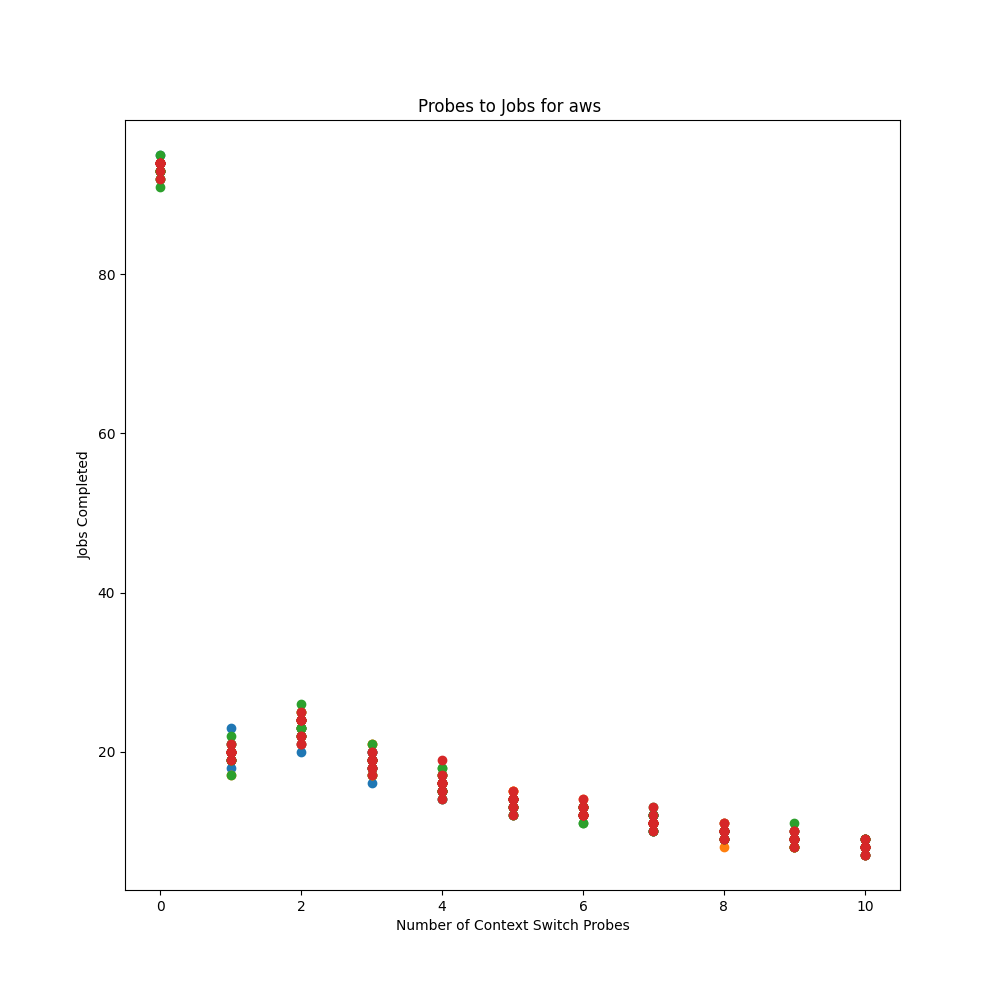
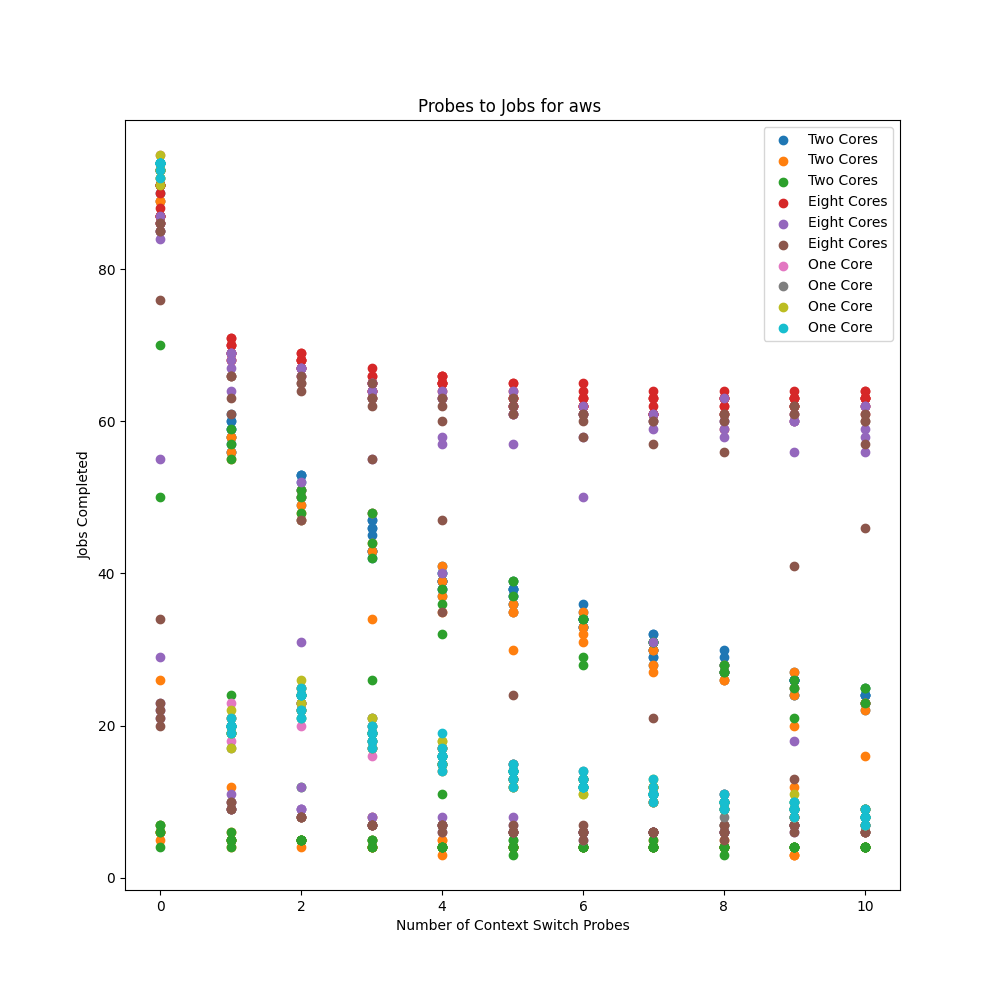
process additional aws experiments

diff --git a/analyzer.py b/analyzer.py
@@ -8,19 +8,25 @@ import matplotlib.pyplot as plt
 def visualize(serverType, governor, experiment, timePerJob):
     allJobs = []
     allEvents = []
+    colors = [] # number of cores for AWS instance
     path = os.getcwd() + "\\Results\\" + experiment
     for file in os.listdir(path):
         if serverType in file and governor in file:
             lines = open(path + "\\" + file, "r").readlines()
             if timePerJob:
-                allJobs.append([round(20.0 / val, 3)
-                               for val in eval(lines[19])])
+                allJobs.append([round(20.0 / val, 3) for val in eval(lines[19])])
             else:
                 allJobs.append(eval(lines[19]))
             if experiment == "probesExp":
                 allEvents.append(eval(lines[21]))
             else:  # context switch experiment
                 allEvents.append([0, 1, 2, 3, 4, 5, 6, 7, 8, 9, 10] * 10)
+                # if "aws_" in file:
+                #     colors.append(("One Core", "red"))
+                # elif "aws2" in file:
+                #     colors.append(("Two Cores", "green"))
+                # elif "aws8" in file:
+                #     colors.append(("Eight Cores", "blue"))
 
     # create a scatter plot of the data
     fig, ax1 = plt.subplots(figsize=(10, 10))
@@ -35,36 +41,35 @@ def visualize(serverType, governor, experiment, timePerJob):
     else:
         ax1.set_xlabel("Number of Context Switch Probes")
     for idx in range(len(allEvents)):
-        plt.scatter(allEvents[idx], allJobs[idx], label=f"Run {idx + 1}")
+        if colors:
+            plt.scatter(allEvents[idx], allJobs[idx], label=colors[idx][0])
+        else:
+            plt.scatter(allEvents[idx], allJobs[idx], label=f"Run {idx + 1}")
+    if colors:
+        plt.legend()
     if experiment == "probesExp":
         ax1.set_title(f"Events to Jobs for {serverType} {governor}")
     else:
         ax1.set_title(f"Probes to Jobs for {serverType} {governor}")
-    fig.show()
+    # fig.show()
     if governor:
         if timePerJob:
-            plt.savefig(
-                f"{os.getcwd()}\\Figures\\{experiment}TPJ\\{serverType}_{governor}.png")
+            plt.savefig(f"{os.getcwd()}\\Figures\\{experiment}TPJ\\{serverType}_{governor}.png")
         else:
-            plt.savefig(
-                f"{os.getcwd()}\\Figures\\{experiment}\\{serverType}_{governor}.png")
+            plt.savefig(f"{os.getcwd()}\\Figures\\{experiment}\\{serverType}_{governor}.png")
     else:
         if timePerJob:
-            plt.savefig(
-                f"{os.getcwd()}\\Figures\\{experiment}TPJ\\{serverType}.png")
+            plt.savefig(f"{os.getcwd()}\\Figures\\{experiment}TPJ\\{serverType}.png")
         else:
-            plt.savefig(
-                f"{os.getcwd()}\\Figures\\{experiment}\\{serverType}.png")
+            plt.savefig(f"{os.getcwd()}\\Figures\\{experiment}\\{serverType}.png")
     plt.close()
 
 
-servers = [("aws", ""), ("cloudlab", ""), ("home", "per"),
-           ("home", "ps"), ("school", "per"), ("school", "ps")]
+servers = [("aws_", ""), ("aws2", ""), ("aws8", ""), ("cloudlab", ""), ("home", "per"), ("home", "ps"), ("school", "per"), ("school", "ps")]
 serversNoGov = [("aws", ""), ("cloudlab", ""), ("home", ""), ("school", "")]
-allServers = [("aws", ""), ("cloudlabA", ""), ("cloudlabB", "per"), ("cloudlabB",
-                                                                     "ps"), ("home", "per"), ("home", "ps"), ("school", "per"), ("school", "ps")]
-experimentType = ["probesExp", "csExp", "csExpTPJ"][int(
-    input("probesExp (0) or csExp(1) or csExpTPJ (2): "))]
+allServers = [("aws", ""), ("cloudlabA", ""), ("cloudlabB", "per"), ("cloudlabB", "ps"), ("home", "per"), ("home", "ps"), ("school", "per"), ("school", "ps")]
+newServers = [("aws", "")]
+experimentType = ["probesExp", "csExp", "csExpTPJ"][int(input("probesExp (0) or csExp(1) or csExpTPJ (2): "))]
 if experimentType == "csExp":
     for server, governor in servers:
         visualize(server, governor, experimentType, False)
